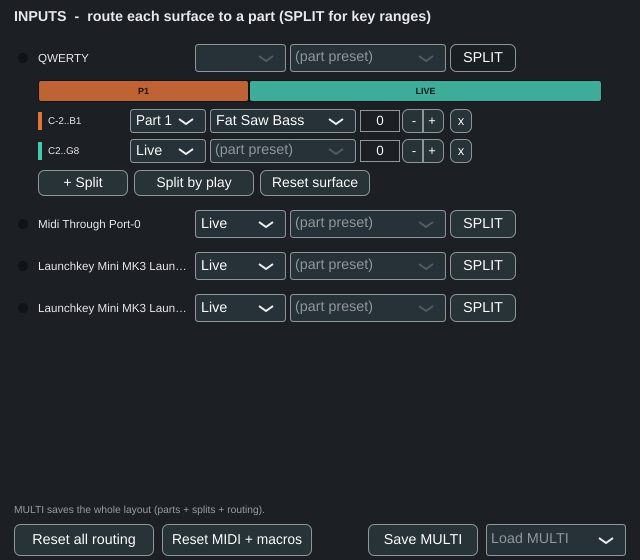
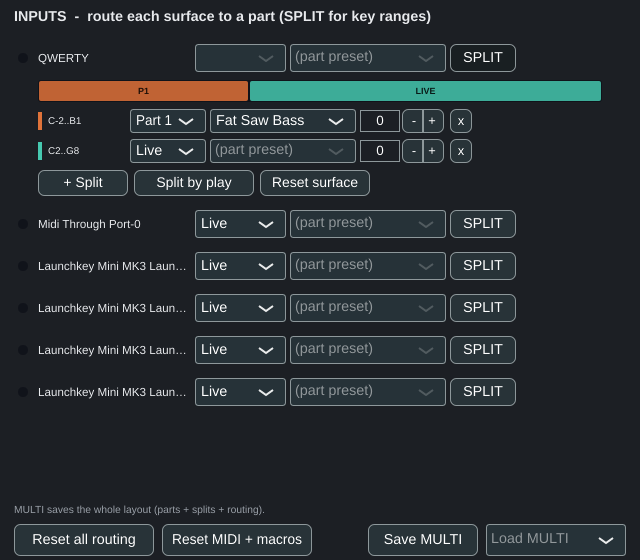
I1: split controller drum pads into their own routable input surface
A controller whose pads send on a separate MIDI channel + note range now presents
them as an independent "<device> Pads" surface, so the pads can route to a different
part than the keys (e.g. pads -> the P4 drum kit while the keys play a lead).

- MidiProfile: optional padChannel + padNotes[lo,hi] (hasPadSurface()); parsed in
  fromJson. launchkey_mini.json declares channel 10, notes 36-51.
- Processor: routeDeviceMessage(device, msg) — the standalone's per-device entry
  point — re-tags a note on/off on the pad channel/range to "<device> Pads", else
  routes to the device's own surface (keeps "one message -> one surface"). Plus
  padSubSurfaceName() + padProfileFor(). Everything downstream is string-keyed, so
  the pads surface gets its own zones / activity / MULTI persistence for free.
- Standalone handleIncomingMidiMessage -> routeDeviceMessage.
- INPUTS dialog lists "<device> Pads" under the device.

Tests: profile parse; only pad-capable devices expose the surface; pad notes ->
pads part while keys -> device part (with exclusion); ch10-out-of-range not split;
non-pad device never split; MULTI round-trip. Full plugin (261) + DSP + pluginval
+ sanitizer green.

diff --git a/tests/plugin/test_pad_surface.cpp b/tests/plugin/test_pad_surface.cpp
@@ -1,0 +1,101 @@
+// ============================================================================
+// I1 — the drum PADS of a controller (a profile-declared MIDI channel + note range)
+// split off into their OWN routable input surface ("<device> Pads"), so the pads can
+// play a different part than the keys. Driven by the device profile (Launchkey Mini:
+// ch10, notes 36-51); routed through the same string-keyed surface machinery as any
+// other surface, so it gets its own zones / activity / MULTI persistence for free.
+// ============================================================================
+#include <catch2/catch_test_macros.hpp>
+#include "PluginProcessor.h"
+#include "MidiProfile.h"
+
+namespace
+{
+    constexpr double kSR = 48000.0;
+    const juce::String kLK = "Novation Launchkey Mini";
+    const juce::String kLKPads = "Novation Launchkey Mini Pads";
+}
+
+TEST_CASE ("MidiProfile parses an optional pad sub-surface", "[plugin][pads][profile]")
+{
+    bool ok = false;
+    auto p = MidiProfile::fromJson (R"({"name":"X","match":["x"],"padChannel":10,"padNotes":[36,51]})", ok);
+    REQUIRE (ok);
+    REQUIRE (p.hasPadSurface());
+    REQUIRE (p.padChannel == 10);
+    REQUIRE (p.padLo == 36);
+    REQUIRE (p.padHi == 51);
+
+    bool ok2 = false;   // no pad block -> no sub-surface
+    auto q = MidiProfile::fromJson (R"({"name":"Y","match":["y"]})", ok2);
+    REQUIRE (ok2);
+    REQUIRE_FALSE (q.hasPadSurface());
+}
+
+TEST_CASE ("only a pad-capable device exposes a '<device> Pads' surface", "[plugin][pads]")
+{
+    VASynthProcessor p;
+    REQUIRE (p.padSubSurfaceName (kLK) == kLKPads);              // Launchkey profile declares pads
+    REQUIRE (p.padSubSurfaceName ("Korg B2").isEmpty());        // keyboard, no pads
+    REQUIRE (p.padSubSurfaceName ("Generic USB MIDI").isEmpty());
+}
+
+TEST_CASE ("pad notes split to the pads surface; keys stay on the device", "[plugin][pads][routing]")
+{
+    VASynthProcessor p; p.prepareToPlay (kSR, 256);
+    p.setSurfaceRouting (kLK,     1);       // keys  -> part 1
+    p.setSurfaceRouting (kLKPads, 2);       // pads  -> part 2
+
+    auto render = [&] { juce::AudioBuffer<float> b (2, 256); b.clear(); juce::MidiBuffer m; p.processBlock (b, m); };
+
+    SECTION ("a KEY note (ch1) plays the device's part, not the pads' part")
+    {
+        const auto k0 = p.partActivity (1), d0 = p.partActivity (2);
+        p.routeDeviceMessage (kLK, juce::MidiMessage::noteOn (1, 60, 0.9f));
+        render();
+        REQUIRE (p.partActivity (1) > k0);           // key -> part 1
+        REQUIRE (p.partActivity (2) == d0);          // pads part untouched
+    }
+
+    SECTION ("a PAD note (ch10, in range) plays ONLY the pads' part")
+    {
+        const auto k0 = p.partActivity (1), d0 = p.partActivity (2);
+        p.routeDeviceMessage (kLK, juce::MidiMessage::noteOn (10, 36, 0.9f));
+        render();
+        REQUIRE (p.partActivity (2) > d0);           // pad -> part 2
+        REQUIRE (p.partActivity (1) == k0);          // device/keys part untouched (excluded)
+    }
+
+    SECTION ("a ch10 note OUTSIDE the pad range is not split (stays on the device)")
+    {
+        const auto k0 = p.partActivity (1), d0 = p.partActivity (2);
+        p.routeDeviceMessage (kLK, juce::MidiMessage::noteOn (10, 72, 0.9f));   // 72 > padHi(51)
+        render();
+        REQUIRE (p.partActivity (1) > k0);           // -> the device surface -> part 1
+        REQUIRE (p.partActivity (2) == d0);
+    }
+}
+
+TEST_CASE ("a non-pad device is never split (routeDeviceMessage == routeSurfaceMessage)", "[plugin][pads][routing]")
+{
+    VASynthProcessor p; p.prepareToPlay (kSR, 256);
+    p.setSurfaceRouting ("Korg B2", 3);
+    const auto h0 = p.partActivity (3);
+    p.routeDeviceMessage ("Korg B2", juce::MidiMessage::noteOn (10, 40, 0.9f));  // ch10 but device has no pads
+    juce::AudioBuffer<float> b (2, 256); b.clear(); juce::MidiBuffer m; p.processBlock (b, m);
+    REQUIRE (p.partActivity (3) > h0);               // whole device (incl ch10) -> its one part
+}
+
+TEST_CASE ("pad-surface routing round-trips through a MULTI", "[plugin][pads][multi]")
+{
+    VASynthProcessor src; src.prepareToPlay (kSR, 256);
+    src.setPartPreset (1, "Fat Saw Bass");          // give part 1 a real sound so routing survives
+    src.setSurfaceRouting (kLK,     1);             // keys -> the bass part
+    src.setSurfaceRouting (kLKPads, 3);             // pads -> P4 (the default-scene 808 kit)
+    auto multi = src.captureMultiState();
+
+    VASynthProcessor dst; dst.prepareToPlay (kSR, 256);
+    dst.applyMultiState (multi);
+    REQUIRE (dst.getSurfaceRouting (kLK)     == 1);
+    REQUIRE (dst.getSurfaceRouting (kLKPads) == 3);  // the pads surface persisted independently
+}

diff --git a/Source/PluginProcessor.cpp b/Source/PluginProcessor.cpp
@@ -190,6 +190,39 @@ void VASynthProcessor::applyDeviceProfile (const juce::String& deviceName)
     }
 }
 
+// I1: the profile (user wins over factory) that gives this device a PAD sub-surface, or null.
+const MidiProfile* VASynthProcessor::padProfileFor (const juce::String& deviceName) const
+{
+    if (auto* usr = profileLib.userFor (deviceName)) if (usr->hasPadSurface()) return usr;
+    if (auto* fac = profileLib.factoryFor (deviceName)) if (fac->hasPadSurface()) return fac;
+    return nullptr;
+}
+
+// The name of a device's pad sub-surface ("<device> Pads"), or empty if it has none. Used by
+// the INPUTS dialog to list it and by routeDeviceMessage to tag its pad notes.
+juce::String VASynthProcessor::padSubSurfaceName (const juce::String& deviceName) const
+{
+    return padProfileFor (deviceName) != nullptr ? deviceName + " Pads" : juce::String();
+}
+
+// The standalone's per-device MIDI entry point (I1). If this device has a pad sub-surface and
+// the message is a note on/off on the pad channel within the pad note range, it is split off
+// into the "<device> Pads" surface; everything else stays on the device's own surface. Keeps
+// the "each message reaches exactly one surface" invariant the standalone relies on.
+void VASynthProcessor::routeDeviceMessage (const juce::String& deviceName, const juce::MidiMessage& m)
+{
+    if (const auto* pad = padProfileFor (deviceName))
+    {
+        if (m.isNoteOnOrOff() && m.getChannel() == pad->padChannel
+            && m.getNoteNumber() >= pad->padLo && m.getNoteNumber() <= pad->padHi)
+        {
+            routeSurfaceMessage (deviceName + " Pads", m);
+            return;
+        }
+    }
+    routeSurfaceMessage (deviceName, m);
+}
+
 // Oscillator anti-aliasing quality. Compile-time default is Efficient (glitch-
 // free with headroom on the 2-core live ThinkPad); build with
 // -DVASYNTH_OSC_QUALITY_HQ for the studio/Windows HQ default. A runtime GUI

diff --git a/Source/MidiProfile.h b/Source/MidiProfile.h
@@ -29,6 +29,14 @@ struct MidiProfile
     std::vector<std::pair<int, juce::String>> mappings;   // (cc, paramID)
     bool                    isUser = false;
 
+    // I1: an optional PAD sub-surface. Some controllers (e.g. Launchkey Mini) send their
+    // drum pads on a separate MIDI channel + note range from the keys. When padChannel > 0,
+    // note messages on that channel within [padLo, padHi] are split off into their OWN input
+    // surface ("<device> Pads") so the pads can route to a different part than the keys.
+    int                     padChannel = 0;               // 0 = no pad sub-surface
+    int                     padLo = 36, padHi = 51;
+    bool hasPadSurface() const { return padChannel >= 1 && padChannel <= 16 && padHi >= padLo; }
+
     bool matchesDevice (const juce::String& deviceName) const
     {
         const auto dev = deviceName.toLowerCase();
@@ -51,6 +59,13 @@ struct MidiProfile
         if (auto* matchArr = v.getProperty ("match", juce::var()).getArray())
             for (auto& m : *matchArr) p.match.add (m.toString());
         p.pitchBendRange = (int) v.getProperty ("pitchBendRange", 2);
+
+        // Optional pad sub-surface (I1). Absent -> padChannel stays 0 (no split).
+        p.padChannel = (int) v.getProperty ("padChannel", 0);
+        if (auto* pad = v.getProperty ("padNotes", juce::var()).getArray())
+        {
+            if (pad->size() == 2) { p.padLo = (int) (*pad)[0]; p.padHi = (int) (*pad)[1]; }
+        }
 
         if (auto* maps = v.getProperty ("mappings", juce::var()).getArray())
         {

diff --git a/Source/PluginProcessor.h b/Source/PluginProcessor.h
@@ -214,6 +214,13 @@ public:
     // pass through globally. Runs off the audio thread (MIDI-callback / message thread).
     void routeSurfaceMessage (const juce::String& surface, const juce::MidiMessage& m);
 
+    // I1: per-device entry point for the standalone. Splits a device's drum PADS (a profile-
+    // declared channel + note range) into a separate "<device> Pads" surface, so pads can route
+    // to a different part than the keys; other messages stay on the device's own surface.
+    void routeDeviceMessage (const juce::String& deviceName, const juce::MidiMessage& m);
+    // The device's pad sub-surface name ("<device> Pads"), or empty if it has none (INPUTS + tests).
+    juce::String padSubSurfaceName (const juce::String& deviceName) const;
+
     // -- MULTI layouts (Part B) -----------------------------------------------
     // A MULTI is a NAMED snapshot of the multitimbral LAYOUT — each locked part's preset
     // plus every surface's zones (ranges/parts/transposes). Since ordinary routing RESETS
@@ -717,6 +724,7 @@ private:
     MidiLearnManager    midiLearn { apvts };
     ModifierLearnManager modifierLearn;
     MidiProfileLibrary  profileLib;
+    const MidiProfile*  padProfileFor (const juce::String& deviceName) const;   // I1: pad-surface profile or null
     FactoryPresetLibrary factoryPresets;
     juce::AudioBuffer<float> stereoScratch;   // master L/R sum target
     std::atomic<std::uint32_t> fxOrderPacked { kDefaultOrderPacked };

diff --git a/Source/UI/InputsDialog.h b/Source/UI/InputsDialog.h
@@ -409,7 +409,14 @@ private:
     {
         surfaceNames.clear();
         surfaceNames.add ("QWERTY");
-        for (auto& d : juce::MidiInput::getAvailableDevices()) surfaceNames.add (d.name);
+        for (auto& d : juce::MidiInput::getAvailableDevices())
+        {
+            surfaceNames.add (d.name);
+            // I1: a controller whose drum pads channel-split off get a second, independently
+            // routable "<device> Pads" surface right beneath it.
+            const auto pads = proc.padSubSurfaceName (d.name);
+            if (pads.isNotEmpty()) surfaceNames.add (pads);
+        }
     }
 
     void relayout()

diff --git a/Source/Standalone/VASynthStandaloneApp.cpp b/Source/Standalone/VASynthStandaloneApp.cpp
@@ -82,7 +82,7 @@ public:
     void handleIncomingMidiMessage (MidiInput* source, const MidiMessage& message) override
     {
         const auto name = source != nullptr ? source->getName() : juce::String();
-        proc.routeSurfaceMessage (name, message);    // zone-resolves notes (+ transpose); bumps activity
+        proc.routeDeviceMessage (name, message);     // I1: splits pads (ch/note) to "<device> Pads"; else zone-resolves
     }
 
 private:

diff --git a/README.md b/README.md
@@ -57,8 +57,11 @@ a general-purpose synth that runs in any VST3 host or standalone.
   LOCKED — each with its **own** voice, FX chain, three LFOs, and mixer level/pan. Route
   each input surface (QWERTY, each MIDI controller) to a part in the **INPUTS** dialog
   (with key-range split zones), so a B2 can hold a bass part while a Launchkey plays the
-  live patch. One shared 24-voice pool with full per-part isolation — a running generator
-  never steals a note you play live. **MULTI** save/load recalls the whole layout.
+  live patch. A controller whose **drum pads** send on a separate channel/note range (e.g. the
+  Launchkey Mini: notes 36–51 on channel 10) splits into its own **"&lt;device&gt; Pads"** surface,
+  so the pads can drive the drum kit while the keys play a lead. One shared 24-voice pool with
+  full per-part isolation — a running generator never steals a note you play live. **MULTI**
+  save/load recalls the whole layout.
 - **Drum kit parts**: per-pad synth voices, choke groups, learn-by-play, per-pad editing
   (the full synth panel on any pad), factory kits + user `.kit` files.
 - **Groove tools**: a diatonic **arpeggiator**, an 8-row **step sequencer** (dedicated

diff --git a/CHANGELOG.md b/CHANGELOG.md
@@ -8,6 +8,16 @@ follow [Semantic Versioning](https://semver.org/spec/v2.0.0.html).
 
 Post-1.0 work on `master` (not yet tagged; the ThinkPad validation is the final pre-tag gate).
 
+### Added
+- **Launchkey drum pads are their own routable input surface (I1).** A controller whose pads
+  send on a separate MIDI channel + note range (declared in its device profile — the Launchkey
+  Mini's 16 pads are notes 36–51 on channel 10) now split off into an independent
+  **"&lt;device&gt; Pads"** surface. It appears as its own row in **INPUTS** right under the device, so
+  the pads can route to a different part than the keys — e.g. pads → the P4 drum kit while the
+  keys play a lead. The split is data-driven (`padChannel` / `padNotes` in the profile JSON), so
+  the pads get their own key-range zones, activity indicator, and MULTI persistence like any
+  surface; keys and other CCs stay on the device's own surface.
+
 ### Changed
 - **The per-part EQ reaches drum-kit parts, and kit parts are now focusable (K2).** Tapping any
   part cell — synth **or** kit — moves the shared edit-focus, so the EQ section (and the part's
